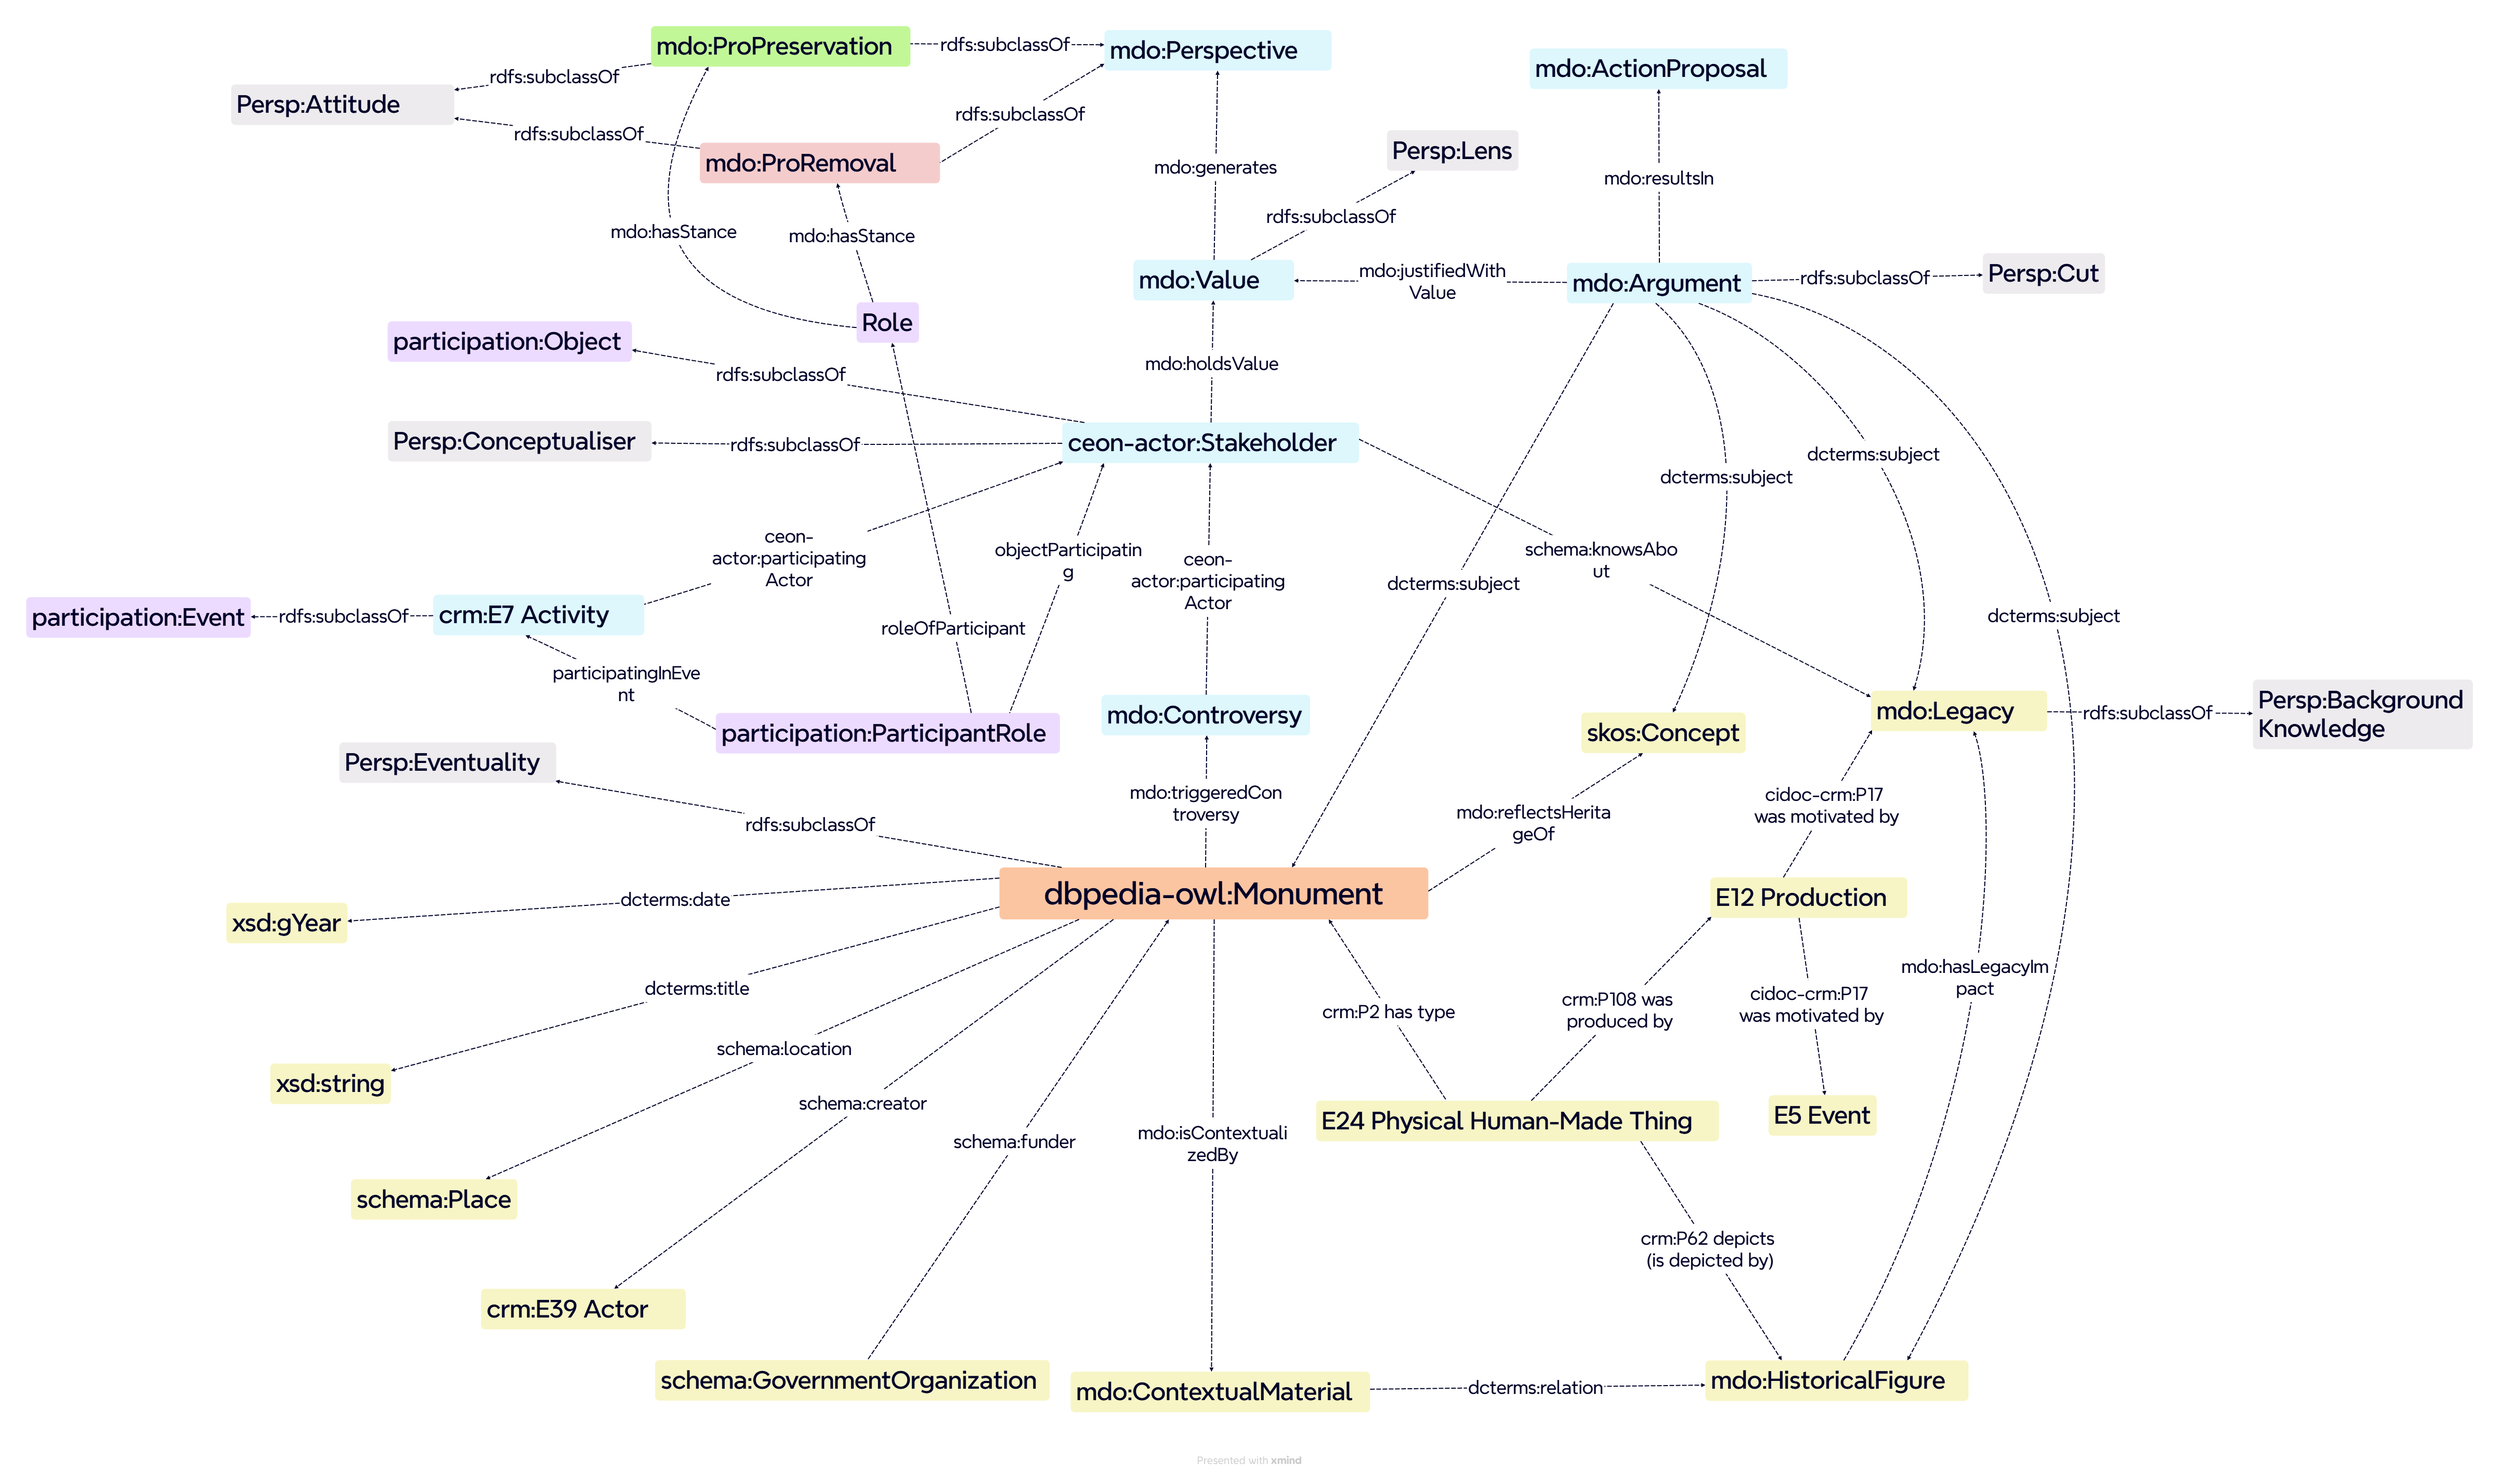
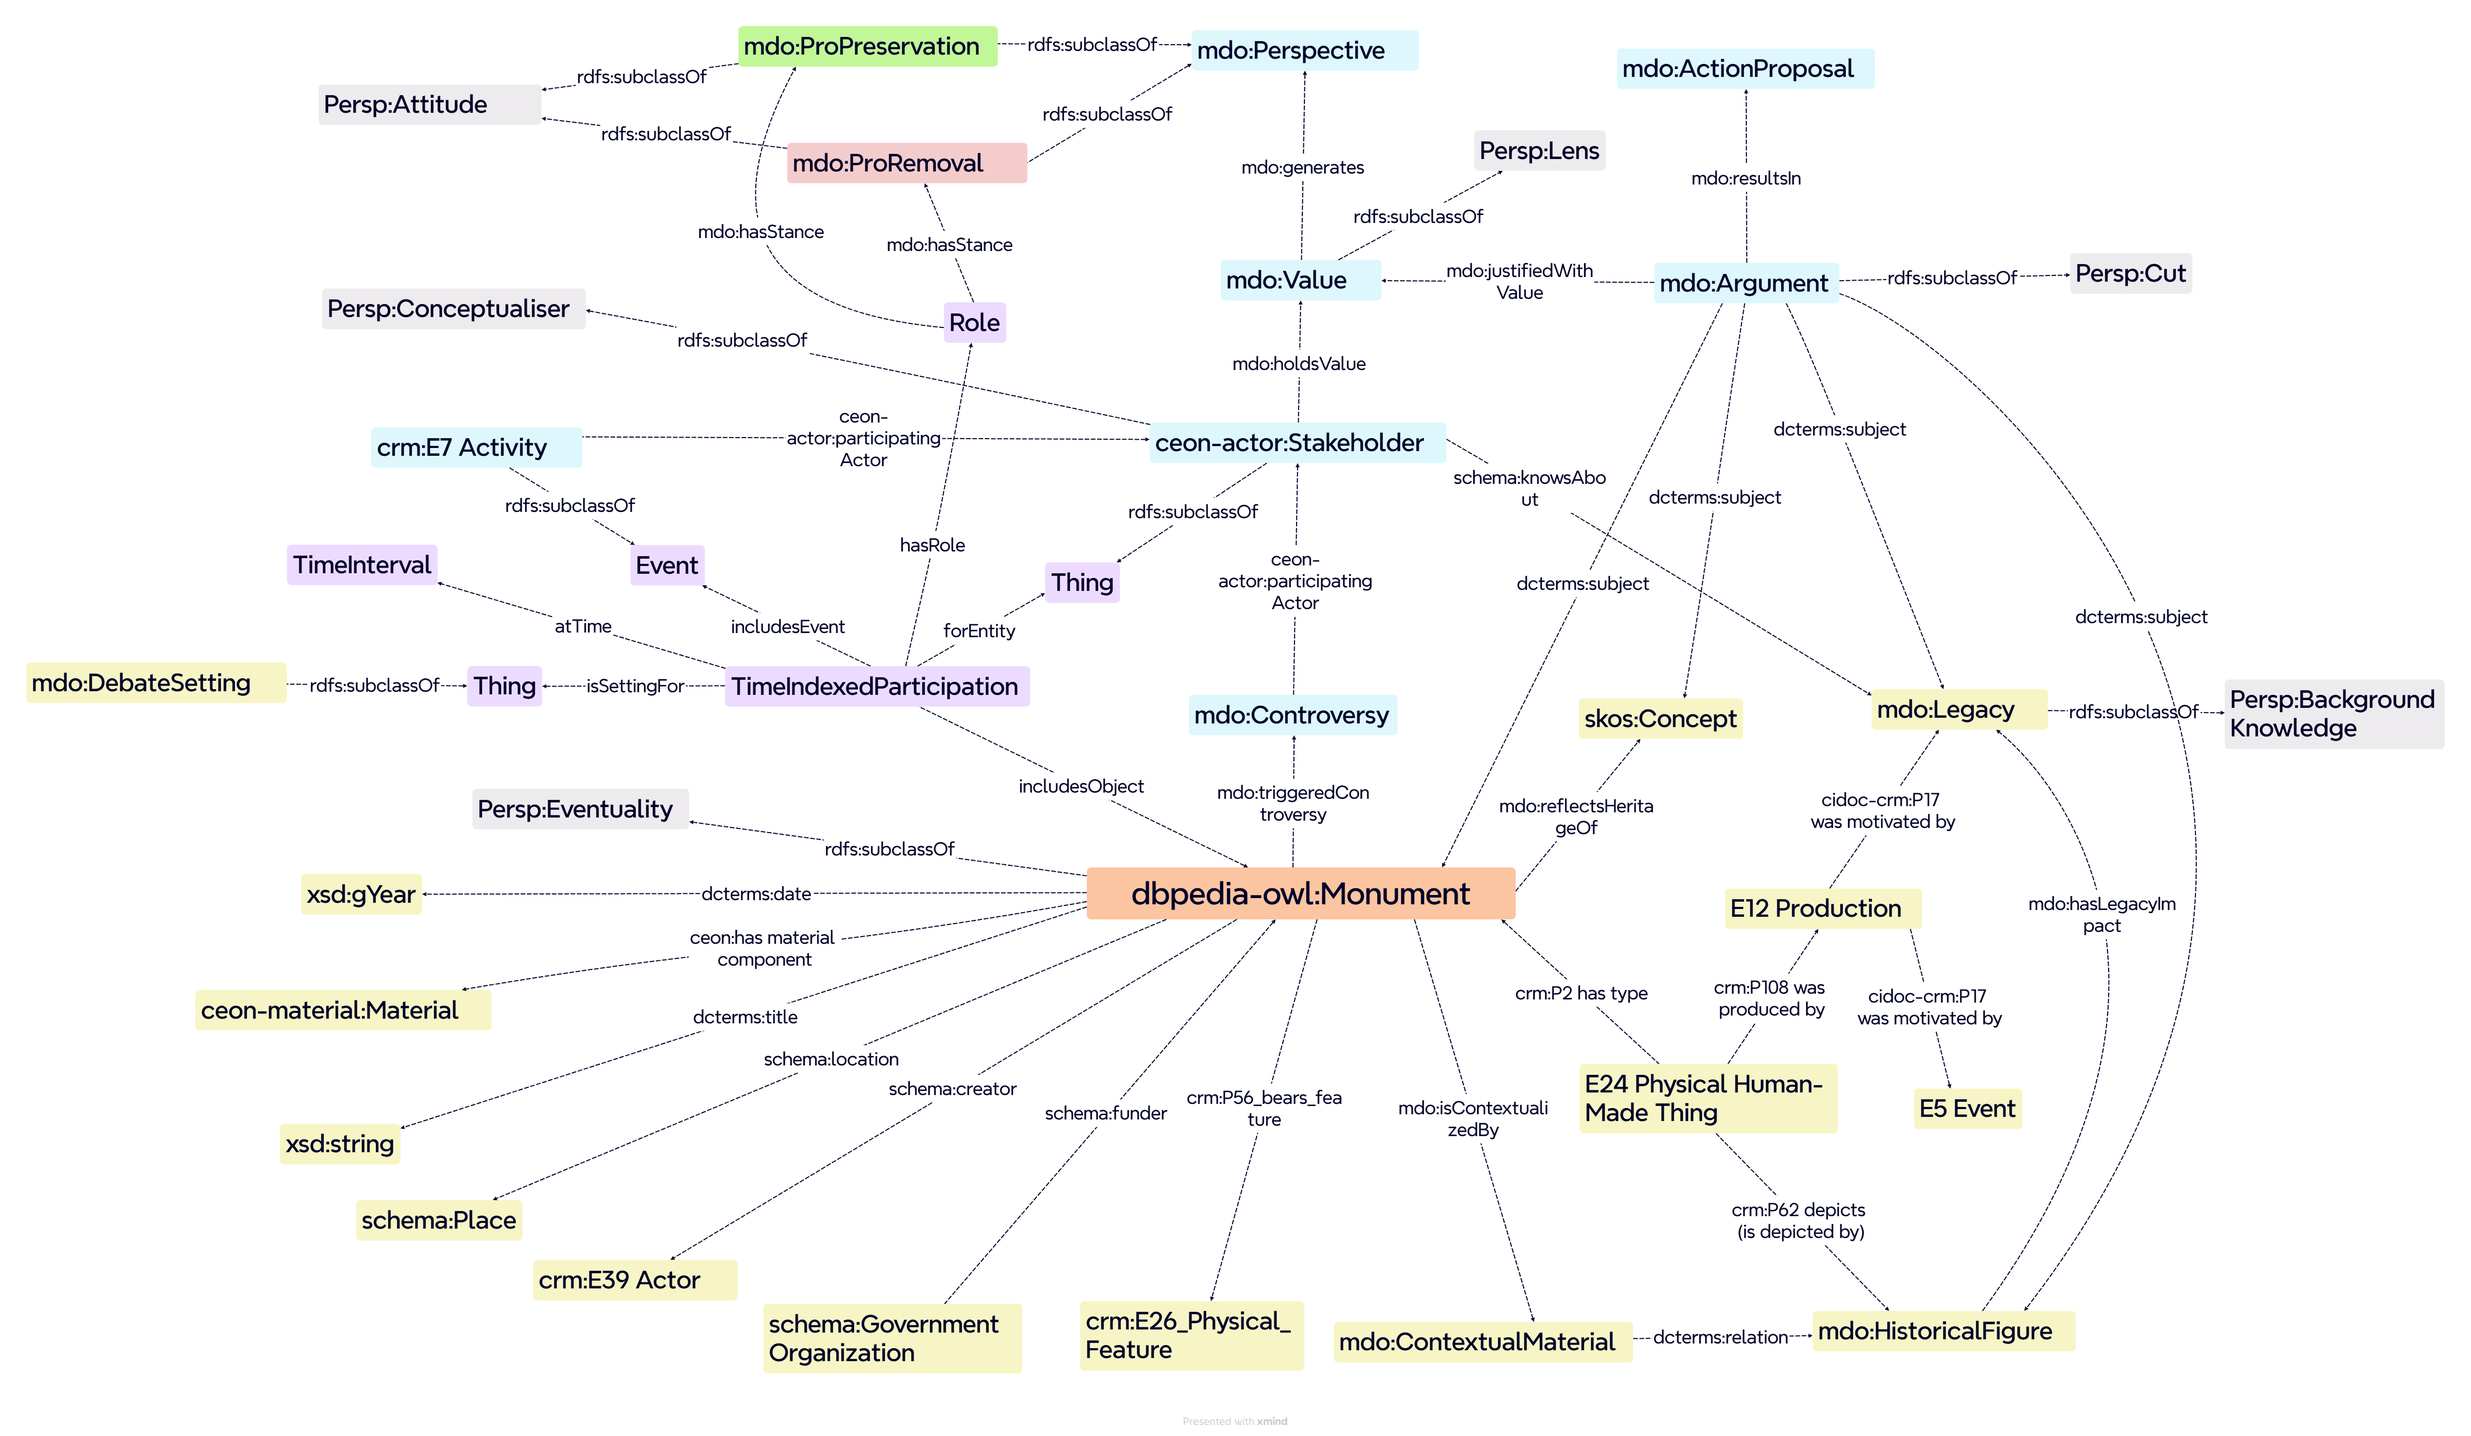
GITBOOK-38: No subject

diff --git a/knowledge-representation/knowledge-organization.md b/knowledge-representation/knowledge-organization.md
@@ -6,6 +6,8 @@ icon: timeline
 
 ## 💭 Conceptual Map
 
+
+
 <figure><img src="../.gitbook/assets/mappa_linguaggio_naturale_2.png" alt=""><figcaption></figcaption></figure>
 
 ## 🧠 Conceptual Model
@@ -20,4 +22,4 @@ LEGENDA
 
 <mark style="color:purple;background-color:purple;">Purple</mark>: ParticipantRole ODP
 
-<figure><img src="../.gitbook/assets/final_conceptual_model_aggiornato.png" alt=""><figcaption></figcaption></figure>
+<figure><img src="../.gitbook/assets/Copy of conceptual_model_aggiornato.png" alt=""><figcaption></figcaption></figure>
